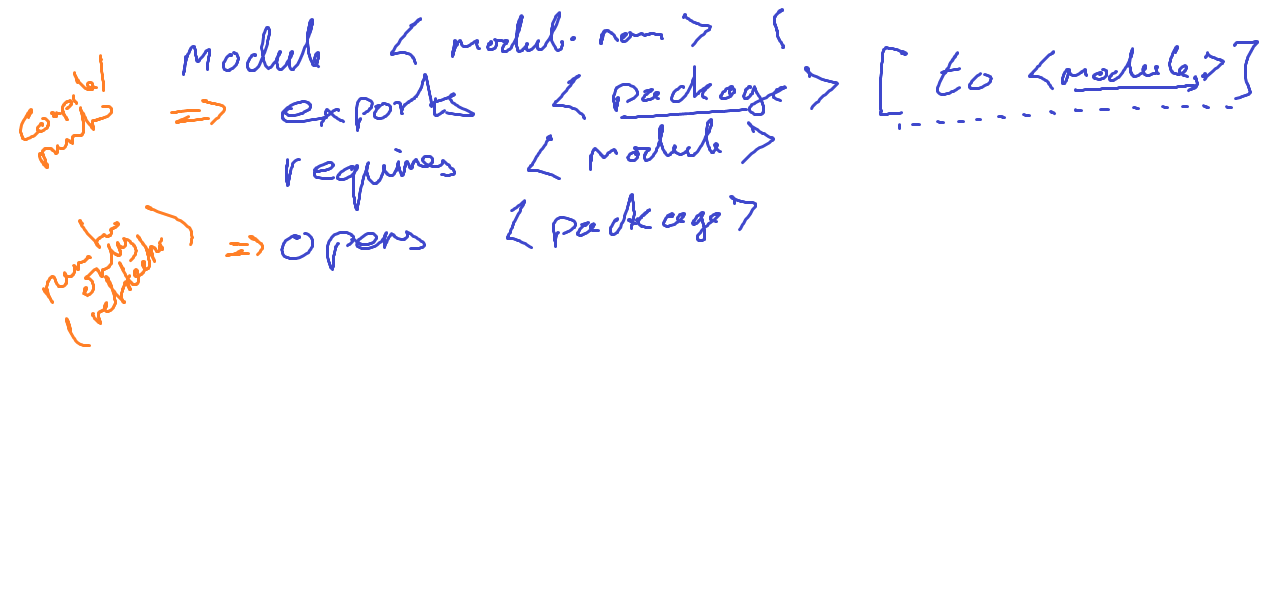
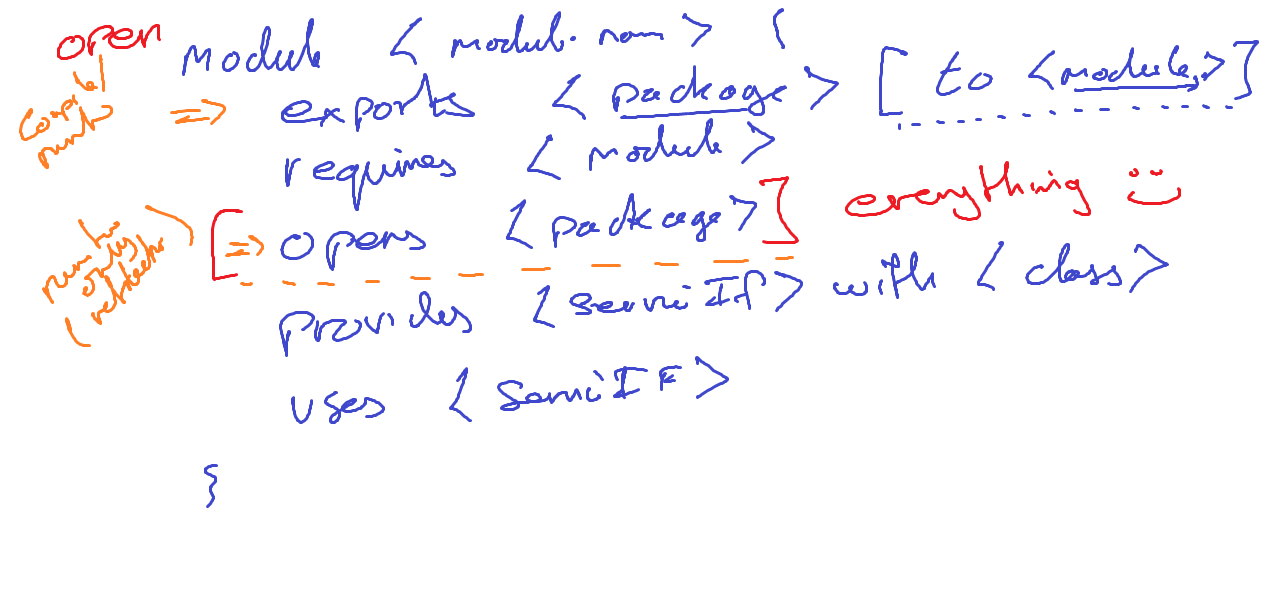
final

diff --git a/client/src/myclient/Main.java b/client/src/myclient/Main.java
@@ -5,6 +5,7 @@ package myclient;
 import myservice.SvcInterface;
 
 import java.lang.reflect.Method;
+import java.util.ServiceLoader;
 
 public class Main {
   static {
@@ -13,15 +14,21 @@ public class Main {
   public static void main(String[] args) throws Throwable {
 //    SvcInterface svc = SvcInterface.get();
 //    SvcInterface svc = new MyImplementation();
-//    System.out.println("Message of the day is " + svc.getMessage());
+
+    ServiceLoader<SvcInterface> loader = ServiceLoader.load(SvcInterface.class);
+    for (SvcInterface svc : loader) {
+      System.out.println("Service implemented by " + svc.getClass().getName());
+      System.out.println("Message of the day is " + svc.getMessage());
+    }
+
 //    SvcInterface svc = null;
-    System.out.println("About to load class...");
-    Class<?> cl = Class.forName("impl.MyImplementation");
-    System.out.println("Class loaded...");
-    Object obj = cl.getConstructor().newInstance();
-    System.out.println("object's type is " + obj.getClass().getName());
-    Method m = cl.getDeclaredMethod("getMessage");
-    Object result = m.invoke(obj);
-    System.out.println("get Message returned " + result);
+//    System.out.println("About to load class...");
+//    Class<?> cl = Class.forName("impl.MyImplementation");
+//    System.out.println("Class loaded...");
+//    Object obj = cl.getConstructor().newInstance();
+//    System.out.println("object's type is " + obj.getClass().getName());
+//    Method m = cl.getDeclaredMethod("getMessage");
+//    Object result = m.invoke(obj);
+//    System.out.println("get Message returned " + result);
   }
 }

diff --git a/secondservice/src/banana/OtherService.java b/secondservice/src/banana/OtherService.java
@@ -1,0 +1,10 @@
+package banana;
+
+import myservice.SvcInterface;
+
+public class OtherService implements SvcInterface {
+  @Override
+  public String getMessage() {
+    return "Second, banana, service";
+  }
+}

diff --git a/library/src/module-info.java b/library/src/module-info.java
@@ -1,4 +1,7 @@
+import myservice.SvcInterface;
+
 module library {
   exports myservice;
-  opens impl;
+  provides SvcInterface with impl.MyImplementation;
+//  opens impl;
 }

diff --git a/secondservice/src/module-info.java b/secondservice/src/module-info.java
@@ -1,0 +1,6 @@
+import myservice.SvcInterface;
+
+module secondservice {
+  requires library;
+  provides SvcInterface with banana.OtherService;
+}

diff --git a/client/src/module-info.java b/client/src/module-info.java
@@ -1,3 +1,6 @@
+import myservice.SvcInterface;
+
 module client {
   requires library;
+  uses SvcInterface;
 }
